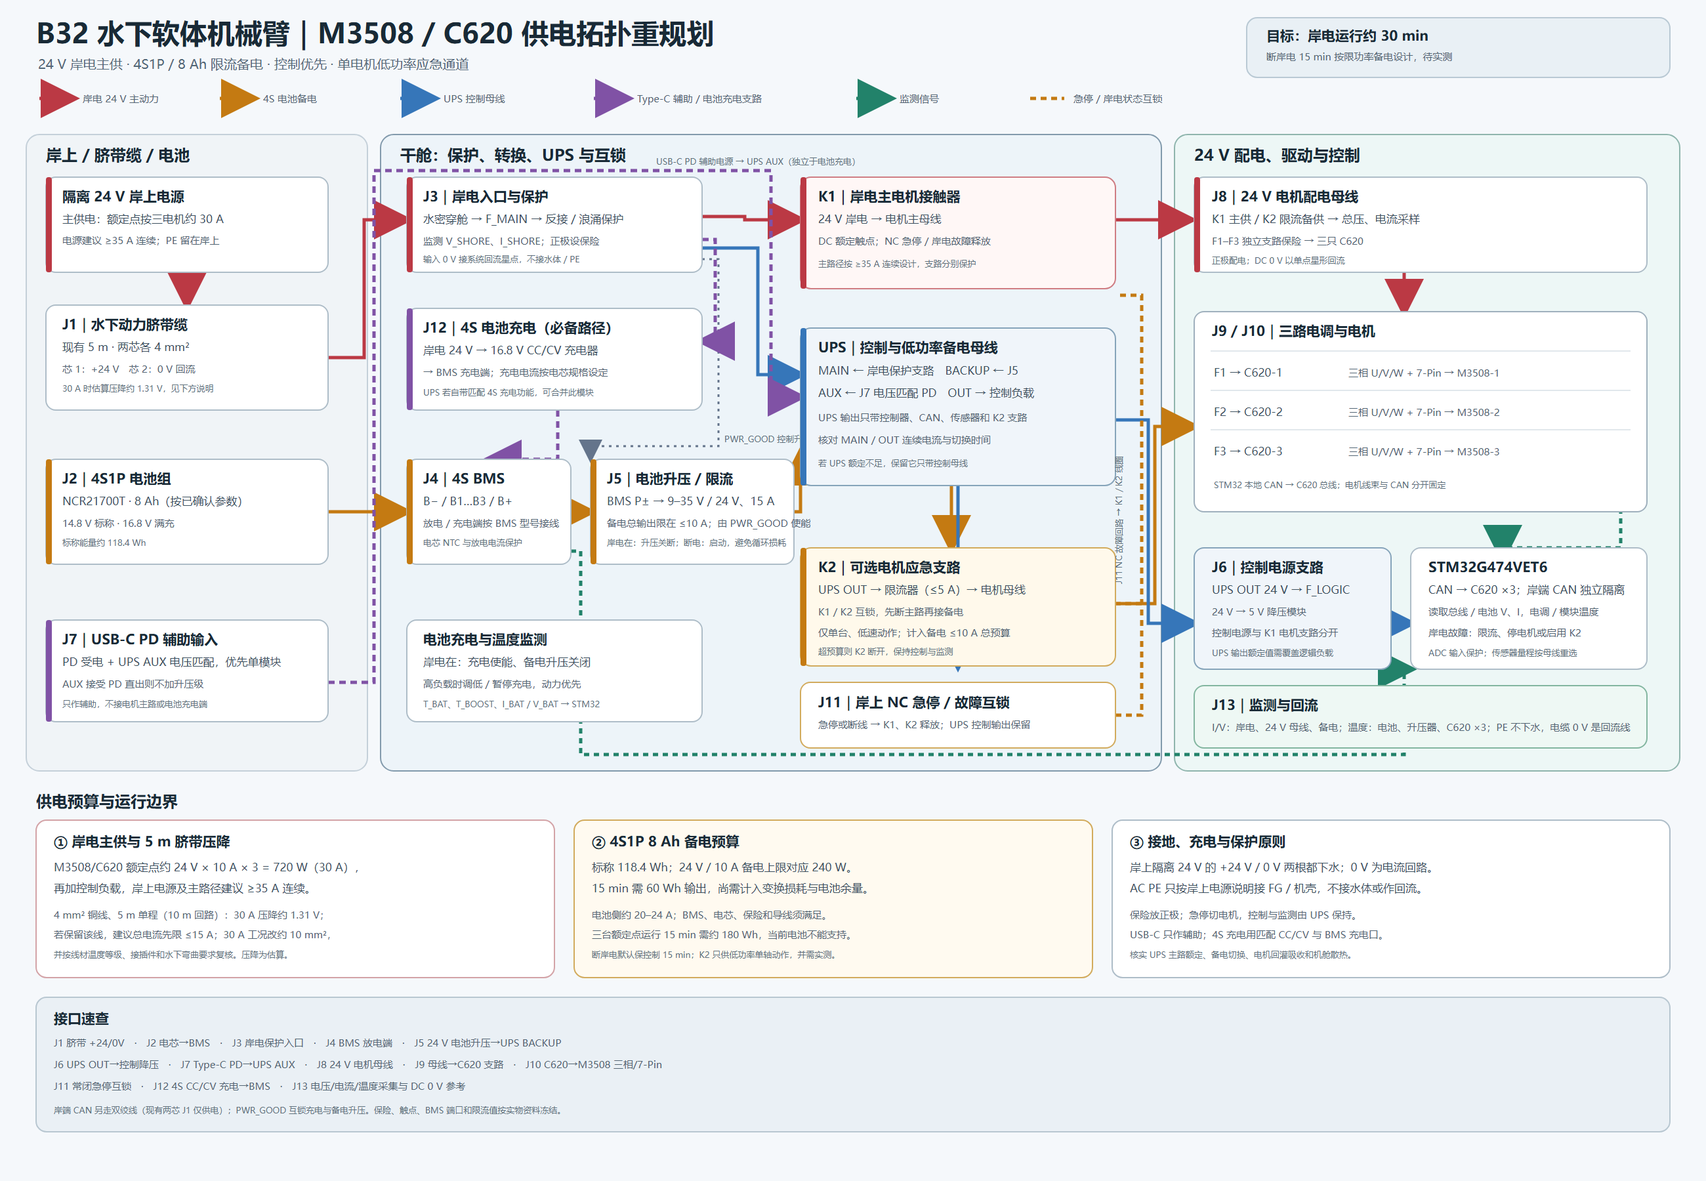
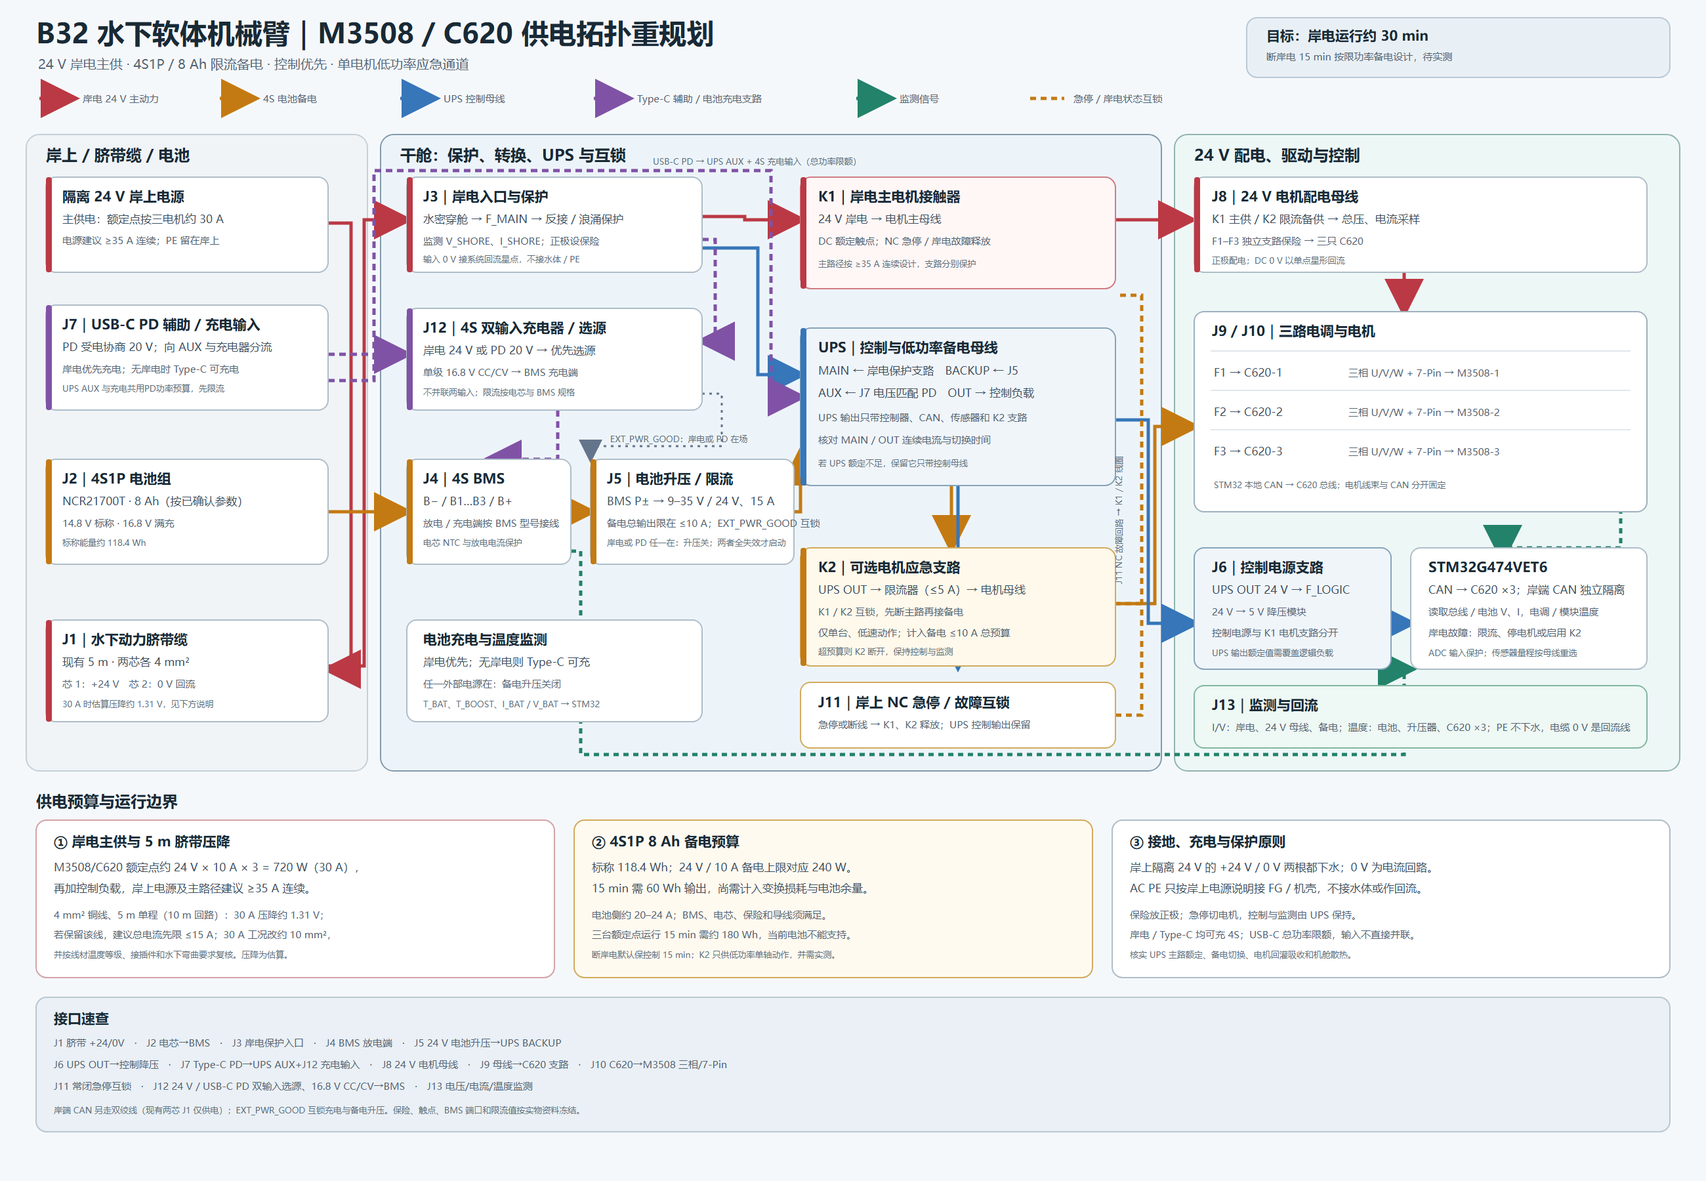
Add USB-C battery charging path

diff --git a/local/spiral-soft-arm/hardware/M3508_C620_供电拓扑重规划_2026-10-25.md b/local/spiral-soft-arm/hardware/M3508_C620_供电拓扑重规划_2026-10-25.md
@@ -1,6 +1,6 @@
 # M3508 / C620 供电拓扑重规划
 
-日期：2026-10-25。本文配套[供电拓扑图 PNG](硬件供电拓扑图_M3508_C620_2026-10-25.png)和[SVG 源图](硬件供电拓扑图_M3508_C620_2026-10-25.svg)。它针对当前三台 DJI M3508 P19、三只 C620、岸上隔离 24 V、5 m 双芯电缆、4S1P 8 Ah 电池、24 V/15 A 电池升压器和 UPS 候选重新安排供电路径，并加入由岸电给电池充电的互锁路径。
+日期：2026-10-25；修订：2026-10-26（增加 Type‑C 电池充电输入）。本文配套[供电拓扑图 PNG](硬件供电拓扑图_M3508_C620_2026-10-25.png)和[SVG 源图](硬件供电拓扑图_M3508_C620_2026-10-25.svg)。它针对当前三台 DJI M3508 P19、三只 C620、岸上隔离 24 V、5 m 双芯电缆、4S1P 8 Ah 电池、24 V/15 A 电池升压器和 UPS 候选重新安排供电路径，并加入岸电与 USB‑C PD 两种电池充电输入。
 
 ## 设计目标与采用的结构
 
@@ -10,19 +10,22 @@
 岸上隔离 24 V (+ / 0 V)
   └─ 5 m 脐带缆 → 水密入口 → F_MAIN / 反接与浪涌保护 → 24 V 主输入
        ├─ K1 常开直流接触器 → 电机配电母线 → F1/F2/F3 → C620 ×3 → M3508 ×3
-       └─ UPS MAIN → UPS OUT 控制母线 → F_LOGIC → 24→5 V 降压 → STM32 / CAN / 传感器
-       └─ J12 4S CC/CV 充电（16.8 V）→ BMS 充电端；按主路余量限流
+       ├─ UPS MAIN → UPS OUT 控制母线 → F_LOGIC → 24→5 V 降压 → STM32 / CAN / 传感器
+       └─ J12 输入 A（24 V）┐
+                            ├→ 岸电优先选源 → 单级 16.8 V CC/CV → BMS 充电端
+USB‑C PD → J7 / 20 V 受电 → J12 输入 B ┘
 
-4S1P 8 Ah → BMS → F_BAT → 9–35 V→24 V/15 A 升压（PWR_GOOD 互锁，备电总限流 ≤10 A）
+4S1P 8 Ah → BMS → F_BAT → 9–35 V→24 V/15 A 升压（EXT_PWR_GOOD互锁，备电总限流 ≤10 A）
        └─ UPS BACKUP → UPS OUT
                 └─ K2 互锁 + ≤5 A 限流 → 电机母线（可选单台低功率应急动作）
 
-USB‑C PD → UPS AUX 电压匹配（可直入则不加升压；否则用一个集成 PD/DC 模块）
+USB‑C PD → PD 受电协商 20 V → 限流分支 ┬→ UPS AUX（电压匹配后接入）
+                                        └→ J12 输入 B（作为 4S 备用充电源）
 ```
 
-岸电存在时 K1 闭合、K2 断开，电机由岸上 24 V 直接供电；UPS 同时维持 STM32 和传感器。岸电也给 4S 电池充电，必须经 16.8 V CC/CV 充电管理和 BMS，不能把 24 V 直接接到电芯。若现有 UPS 已具备适配 4S 电池的完整充电管理，可复用其充电级；否则必须添加一只 24 V 输入的 4S 充电器。
+岸电存在时 K1 闭合、K2 断开，电机由岸上 24 V 直接供电；UPS 同时维持 STM32 和传感器。岸上 24 V 与 Type‑C PD 都能给 4S 电池充电：两路分别进入带反灌隔离和限流的选源级，优先选岸电，岸电不可用时选 Type‑C，然后共用一个 16.8 V CC/CV 充电级接 BMS。两路输入不直接并联，也不把 24 V 或 USB‑C VBUS 直接接到电芯。Type‑C PD 还可分一路给 UPS AUX，但 AUX 与充电器合计功率不得超过 PD 合同额度；充电电流应随 AUX 负载限额。
 
-同一时刻禁止“电池充电”和“电池升压给 UPS 供电”：PWR_GOOD 检测到岸电后启用充电、关闭备电升压；岸电消失后关闭充电、启用备电升压。这样避免岸电经充电器给电池充电、再由电池升压回到 24 V 母线形成无效循环。岸电主路电流接近线缆或电源限值时，先降低或暂停充电，动力负载优先。
+同一时刻禁止“电池充电”和“电池升压给 UPS 供电”：J12 的 EXT_PWR_GOOD 检测到岸电或有效的 Type‑C PD 输入时关闭备电升压；两个外部输入都失效后才启用电池升压。J12 选源不将两路输入并联；岸电与 Type‑C 同时接入时岸电承担充电，Type‑C 可为 UPS AUX 供电。这样避免电池一边充电、一边升压回供 UPS。岸电主路电流或 Type‑C PD 总功率接近限值时，先降低或暂停充电，控制和动力负载优先。
 
 岸电消失后 K1 释放，UPS 接管控制母线。只有在电池、BMS、UPS 余量满足时才允许 K2 接通，且备电总输出保持在 10 A 以内，K2 支路限制在 5 A，并一次只驱动一台电机。K1/K2 必须有电气或机械互锁，避免电池备电回灌到岸电主路。若总电流、低电压或温度越限，K2 断开，控制与监测继续运行。
 
@@ -32,16 +35,16 @@ USB‑C PD → UPS AUX 电压匹配（可直入则不加升压；否则用一个
 |---|---|---|
 | J1 | 隔离岸上 24 V ↔ 脐带缆 | 两芯分别为 +24 V 和 0 V 回流；两根都走水下线缆。岸上 AC PE 按电源说明接 FG/机壳，不接水体。 |
 | J2 | 4S1P 电芯组 → BMS | B−、B1–B3、B+ 电压采样；电池温度探头接 BMS。 |
-| J3 | 脐带缆 → 头端输入保护 | 正极设置总保险；加入反接、浪涌/瞬态保护和岸电电压/电流采样。保护后分给 K1 与 UPS MAIN。 |
-| J4 | BMS P+/P− → 电池升压器 | 正负线都经 BMS；电池正极按升压器输入和线径配置 F_BAT；PWR_GOOD 岸电检测控制升压器使能。 |
-| J5 | 24 V/15 A 升压器 → UPS BACKUP | 岸电存在时升压器关闭，断电后启用；备电总输出限在 10 A，禁止充放电循环。约需 20–24 A 电池侧电流，需确认 BMS、电芯与导线持续能力。 |
+| J3 | 脐带缆 → 头端输入保护 | 正极设置总保险；加入反接、浪涌/瞬态保护和岸电电压/电流采样。保护后分给 K1、UPS MAIN 与 J12 输入 A。 |
+| J4 | BMS P+/P− → 电池升压器 | 正负线都经 BMS；电池正极按升压器输入和线径配置 F_BAT；J12 输出的 EXT_PWR_GOOD（岸电或 PD 有效）控制升压器使能。 |
+| J5 | 24 V/15 A 升压器 → UPS BACKUP | 岸电或 Type‑C PD 任一有效时升压器关闭，二者都失效后启用；备电总输出限在 10 A，禁止充放电循环。约需 20–24 A 电池侧电流，需确认 BMS、电芯与导线持续能力。 |
 | J6 | UPS OUT → 控制电源 | UPS 输出经 F_LOGIC 到 24→5 V 降压模块，再到 STM32G474VET6；控制地接本机 DC 0 V。 |
-| J7 | Type‑C PD → UPS AUX | 只作低功率辅助。若 UPS AUX 接受所协商的 PD 电压，直接接入；否则使用单块集成 PD 受电与 DC/DC 模块，避免 PD 板后再串独立升压器。不能接电机母线或替代 4S 充电器。 |
+| J7 | Type‑C PD → UPS AUX 与 J12 输入 B | PD 受电端请求 20 V；经过独立支路保护与总功率限流，分别供 UPS AUX 和 4S 充电选源输入。若 AUX 接受 PD 电压则直入，否则只增加一块匹配电压的 DC/DC。 |
 | J8 | 电机主母线 → C620 电源支路 | K1 为岸电主路；K2 是互锁的备电支路。母线设置总电流采样，C620 各自设置 F1–F3。 |
 | J9 | 配电母线 → C620 ×3 | 24 V 正负电源分别到三只电调；按所购线束、接插件和 C620 输入要求制作。 |
 | J10 | C620 ×3 → M3508 ×3 | 每台同时接三相 U/V/W 与配套 7‑Pin 数据线；三相线与信号线分束固定。 |
 | J11 | 岸上 NC 急停回路 → K1/K2 线圈 | 急停、断线或控制电源故障时释放动力接触器，UPS 控制输出继续供电。接触器触点需为直流额定。 |
-| J12 | 岸电保护支路 → 4S 充电器 → BMS 充电端 | 24 V 输入、16.8 V 输出 CC/CV；若 UPS 已有适用 4S 充电管理可复用。充电电流按电芯与 BMS 规格设置，并随岸电主路余量调节。 |
+| J12 | 岸电保护 24 V / Type‑C PD 20 V → 4S 充电级 → BMS 充电端 | 双输入选源，岸电优先、PD 备用并防反灌；共用 16.8 V CC/CV 输出。J12 同时给出 EXT_PWR_GOOD；PD 总功率由 AUX 与充电支路分配，充电电流按输入余量、电芯和 BMS 规格设定。 |
 | J13 | 电压、电流、温度 → STM32/BMS | 采集岸电、主母线、备电、电池电流/电压；测电池、升压器和三只 C620 温度。电芯温度优先接 BMS。 |
 
 岸上隔离电源的 0 V 是 +24 V 回流线，不需要另找水下地线。不得让水体、拉索、屏蔽层或塑料舱体承担回流。若使用屏蔽通信缆，屏蔽层与 PE 的接法按接口隔离方案处理；岸端 CAN 应与本机电源地隔离。现有两芯动力缆不含 CAN 双绞线，岸端 CAN 需另走通信双绞线，或另选复合脐带缆。
@@ -50,11 +53,14 @@ USB‑C PD → UPS AUX 电压匹配（可直入则不加升压；否则用一个
 
 - 电机动力直接使用岸上 24 V 主路，不经过 24→12→24 或 UPS 输出级。
 - 逻辑电源从 24 V 控制母线通过单级 24→5 V 降压供电，不再串接 12 V 中间级。
-- 24 V→4S 只在岸电存在时作为充电级工作；4S→24 V 只在岸电失效时作为备电级工作。若现有 UPS 含适合 4S 的充电管理，可将充电级合并进 UPS；否则这两个单向功能必须分别实现。
-- Type‑C 先协商 UPS AUX 可直接接受的电压；可直入时不增加转换级，不能直入时选一块集成 PD/DC 模块，不串接“PD 输入板 + 独立升压板”。
-- 主动力、充电、逻辑三路分开；电源总线采用短粗线、单点 0 V 星形回流和匹配电流的接插件。岸电高负载时降低充电电流，备电升压关闭时压低其静态耗电。
+- 岸电 24 V 与 Type‑C PD 20 V 经反灌隔离和岸电优先选源，共用一个 4S CC/CV 充电级；不安装两套并联充电器，也不把输入电源直接并接。充电器应能承受实测岸电最高输入电压。
+- Type‑C PD 受电端请求 20 V，以便单级降压至 4S 满充 16.8 V；若 PD 电源只能提供低于充电器所需的电压，则必须用升降压充电器，会增加转换损耗。USB‑C PD 同时供 UPS AUX 和电池充电时，按 PD 合同总功率限流，优先保证控制负载。
+- UPS AUX 能直接接受所协商 PD 电压时不再转换；不能接受时只增加一块匹配电压的 DC/DC，不串接多级模块。控制板仍从 24 V 控制母线经单级 24→5 V 降压供电。
+- 主动力、充电、逻辑三路分开；电源总线采用短粗线、单点 0 V 星形回流和匹配电流的接插件。岸电高负载或 Type‑C AUX 负载增大时降低充电电流，任一外部电源有效时关闭备电升压以减少静态损耗。
 
 若要把 4S 充电级与 4S→24 V 备电升压级合成一个双向 DC/DC，模块必须同时支持 4S CC/CV 充电、24 V 反向输出、输入优先与反灌保护，并满足备电功率。当前备电上限 24 V/10 A 为 240 W 连续功率；常见小功率双向充电板不能直接视为满足该额定值。先核对现有 UPS/转换器铭牌，不用低功率板替代已确认的 24 V/15 A 升压级。
+
+USB‑C 方案要求带 PD 受电协商的输入模块，而非只引出 5 V 的 Type‑C 插座板。USB‑IF 的 PD 资料列有 20 V 固定电源档；TI 的 [TIDA‑050047 参考设计](https://www.ti.com/tool/TIDA-050047)示例了 20 V/5 A PD 输入为 2–4 串电池充电。该参考设计仅说明可实现性，并不代表当前已经选定其板卡；实际 PD 电源须支持所请求的档位，UPS AUX 与充电支路还要共用该 PD 功率预算。[USB‑IF PD 说明](https://www.usb.org/usb-charger-pd)。
 
 ## 粗略功率预算
 
@@ -72,7 +78,7 @@ USB‑C PD → UPS AUX 电压匹配（可直入则不加升压；否则用一个
 
 1. 岸电与电池备电正极分别保护；电机三路分别保护；保护器件按线材、接插件、电调和测得峰值电流选择，不在本候选图中预设保险丝安培数。
 2. K1/K2 执行先断后合，阻断主路与备电路之间的反向电流。急停硬接线切断电机动力，STM32 与记录数据由 UPS 保持。
-3. 岸电存在时，电池充电器工作、备电升压器关闭；岸电丢失时充电器关闭、备电升压器启用。固件切换为低功率模式：默认停止电机，仅在有明确安全动作时单台低速点动；全系统备电输出不超过 10 A。
+3. 岸电有效时优先用岸电充电；岸电失效但 Type‑C PD 有效时，由 Type‑C 在 UPS AUX 负载预算之外给电池充电。任一外部输入有效时备电升压关闭；两路都失效时才启用。断岸电后固件切换为低功率模式：默认停止电机，仅在有明确安全动作时单台低速点动；全系统备电输出不超过 10 A。
 4. 监测过流、低电压、升压器过温、C620 过温与电池温度。触发阈值按电芯、BMS、UPS 和电调资料设定，并在台架测试中验证。
 5. C620 电机制动可能造成母线能量回灌；按 C620 手册确认回灌处理和过压保护方案后再定型。
 

diff --git a/local/spiral-soft-arm/hardware/M3508_C620_干式驱动拓扑候选_2026-10-25.md b/local/spiral-soft-arm/hardware/M3508_C620_干式驱动拓扑候选_2026-10-25.md
@@ -12,15 +12,16 @@
 岸上隔离 24 V → 双芯脐带缆 → 输入保险/反接与浪涌保护 → 24 V 电机主母线
                                                      ├─ K1 主电机接触器 → 三路保险 → C620 ×3 → M3508 ×3
                                                      └─ UPS MAIN → 控制与监测母线
-                                                     └─ 4S CC/CV 充电器 24→16.8 V → BMS 充电端
-4S1P 电池 → BMS → 保险 → 24 V / 15 A 升压（PWR_GOOD互锁，仅岸电失效时开）→ UPS BACKUP → 控制母线
-USB-C PD → 单块电压匹配的 PD/AUX 模块 → UPS AUX（仅低功率辅助）
+                                                     └─ J12 双输入选源（岸电优先）→ 16.8 V CC/CV → BMS
+4S1P 电池 → BMS → 保险 → 24 V / 15 A 升压（任一外部电源有效时关闭）→ UPS BACKUP → 控制母线
+USB-C PD → 20 V 受电 / 限流分支 ┬→ UPS AUX（电压匹配）
+                                └→ J12 第二充电输入（岸电失效时）
 岸电故障 → K1 断开；控制、CAN 和监测继续由 UPS 供电；可选 K2 仅允许限流的单电机应急动作
 ```
 
-岸电存在时，24 V 直接供电机主路，并通过 4S CC/CV 充电器为电池充电；如果现有 UPS 内置了适用于 4S 电池的充电管理，可复用该级，否则需增加独立充电器。检测到岸电后关闭电池升压器，岸电丢失后先禁用充电器再启用升压器，避免充电与放电回路互相耗电。充电电流随岸电总电流调节，主动力优先。
+岸电和 USB‑C PD 都可为电池充电：两路经反灌隔离与选源功能进入同一充电级，岸电优先，岸电断开后由 Type‑C 作为充电输入；两种电源不可直接并联。单级 16.8 V CC/CV 输出接 BMS 充电端。岸电有效时电机主路仍由 24 V 直接供电。任一外部输入有效时关闭电池升压器，仅在岸电与 Type‑C 均失效时启用备电，避免一边充电一边从电池升压供电。
 
-Type‑C 只作为 UPS AUX 辅助输入。若 UPS AUX 接受 USB‑C PD 协商电压，就直接供电；否则用一块集成 PD 受电和所需 DC/DC 的模块，不采用两个转换模块串联。STM32 控制电源从 24 V 控制母线经单级 24→5 V 降压供电，省去 24→12→5 V 级联。
+USB‑C PD 输入同时分支给 UPS AUX 和电池充电选源级；建议请求 20 V，且两个支路之和不得超过 PD 协商的功率。充电器应动态限流，避免 UPS AUX 启动或负载上升时 USB‑C 过载。20 V 可用单级降压充到 4S 的 16.8 V；若 PD 源不给 20 V，则改用升降压充电级，会增加损耗。UPS AUX 可直收协商电压时不再加 DC/DC，否则只加一块匹配电压的模块。STM32 控制电源从 24 V 控制母线经单级 24→5 V 降压供电，省去 24→12→5 V 级联。
 
 C620 接收 CAN 指令，也支持 PWM；当前建议用本地 CAN，因为 C620 可返回电机温度、位置和转速。电机与电调之间必须同时连接三相功率线和 7-Pin 数据线，不能仅连接 CAN。C620 的 49.4 × 25.8 × 11.5 mm 尺寸不含线束，CAD 中三块电调是本体包络；接插件朝向和线束弯曲半径需要拿到实物后补画。[大疆 M3508/C620 产品页](https://www.robomaster.com/zh-CN/products/components/general/M3508)、[M3508 官方手册](https://rm-static.djicdn.com/robomasters/public/document/RoboMaster%20M3508%20P19%20Brushless%20DC%20Gear%20Motor%20V1.0.pdf)。
 
@@ -28,6 +29,6 @@ C620 接收 CAN 指令，也支持 PWM；当前建议用本地 CAN，因为 C620
 
 4S1P、14.8 V、8 Ah 的标称能量约 118.4 Wh。即使忽略损耗，三台在额定工作点运行 15 分钟需要约 180 Wh；所以当前电池不应被画成三台电机满额备电源。默认断岸电策略为 K1 断开、控制/通信/监测继续运行，备电总输出限流至 10 A；只有 UPS/BMS 实际额定值和温升允许时，才启用 K2 单台电机低功率动作，且电机动作电流包含在 10 A 总预算内。电池侧升压输入约需 20–24 A（随电池电压和效率变化），需核对电芯、BMS、导线与保险的持续能力。
 
-4S 电池必须能由岸上电源充电：岸上保护后的 24 V 接 16.8 V CC/CV 充电级，再接 BMS 的正确充电端；若 UPS 已集成适配 4S 的充电管理则复用。Type‑C 仅供 UPS AUX，不负责给电池充电。电池升压器只在岸电失效时开启，充电和升压由岸电有效信号互锁。
+4S 电池可由岸上 24 V 或 USB‑C PD 充电：两路分别接入带反灌保护的选源充电级，岸电优先、Type‑C 备用，随后共用 16.8 V CC/CV 和 BMS。USB‑C PD 请求 20 V，并将协商总功率分配给 UPS AUX 与电池充电；PD 电流不足时优先控制负载、降低充电电流。电池升压器由岸电或 PD 任一有效信号关闭，两个外部输入都失效时才开启。
 
 本拓扑仍未冻结保险丝、K1/K2 线圈与触点额定值、UPS 直通电流、主电源型号、接插件、BMS 型号和 STM32 引脚号。若现有 UPS 的 24 V 主路不能连续通过 35 A，电机主路应旁路该 UPS，UPS 只带控制母线；装配前按实物手册核对端口，单台验证电流和温升，再接入三机与拉索。

diff --git a/local/spiral-soft-arm/solidworks/electronics_enclosure_v16/README_大陆可采购减速电机与直角传动.md b/local/spiral-soft-arm/solidworks/electronics_enclosure_v16/README_大陆可采购减速电机与直角传动.md
@@ -29,7 +29,7 @@ M2006/C610 的厂家标称持续最大扭矩为 1 N·m；本版 M3508/C620 为 3
 
 C620 需与 M3508 以三相线及 7-Pin 数据线成套连接；STM32 可以通过本地 CAN 或 PWM 控制 C620。岸上 CAN 与舱内 C620 总线应分别配置收发器、终端及故障隔离。供电采用岸电直供电机主路、UPS 保持控制、备电限流的结构：三台电机在厂家额定工作点约需 30 A，因此岸上电源及主路建议至少 35 A 连续；原 24 V/15 A 稳压器位于电池备电支路，不足以承担三台满额电机负载。当前供电拓扑将备电总输出限制在 10 A，K2 应急电机支路限制在 5 A，且一次只允许单台低速动作；现有 4 mm²、5 m 脐带缆若保留，主路还应限流。详见[供电拓扑与接口说明](../../hardware/M3508_C620_供电拓扑重规划_2026-10-25.md)。电源额定、总线限流和动作时序仍需按实物核定，并进行 30 分钟温升与 15 分钟断岸电试验；当前 CAD 不证明这些功能。
 
-电池的充电路径从岸上隔离 24 V 取电，经 16.8 V CC/CV 充电级和 BMS 接入 4S 组；若 UPS 已内置适用的 4S 充电管理则复用。岸电有效时电池升压器关闭，岸电失效后才启用；Type‑C 只接 UPS AUX，按 AUX 输入电压匹配，尽量免去额外升压模块。
+4S 电池支持岸上隔离 24 V 与 USB‑C PD 两路充电输入：通过岸电优先的防反灌选源级，共用 16.8 V CC/CV 充电级与 BMS。Type‑C PD 还分支接 UPS AUX；两个负载共用 PD 协商功率并动态限流。岸电或 Type‑C 任一有效时关闭电池升压器，外部电源均失效才启用备电升压。
 
 ## 文件及验证状态
 
